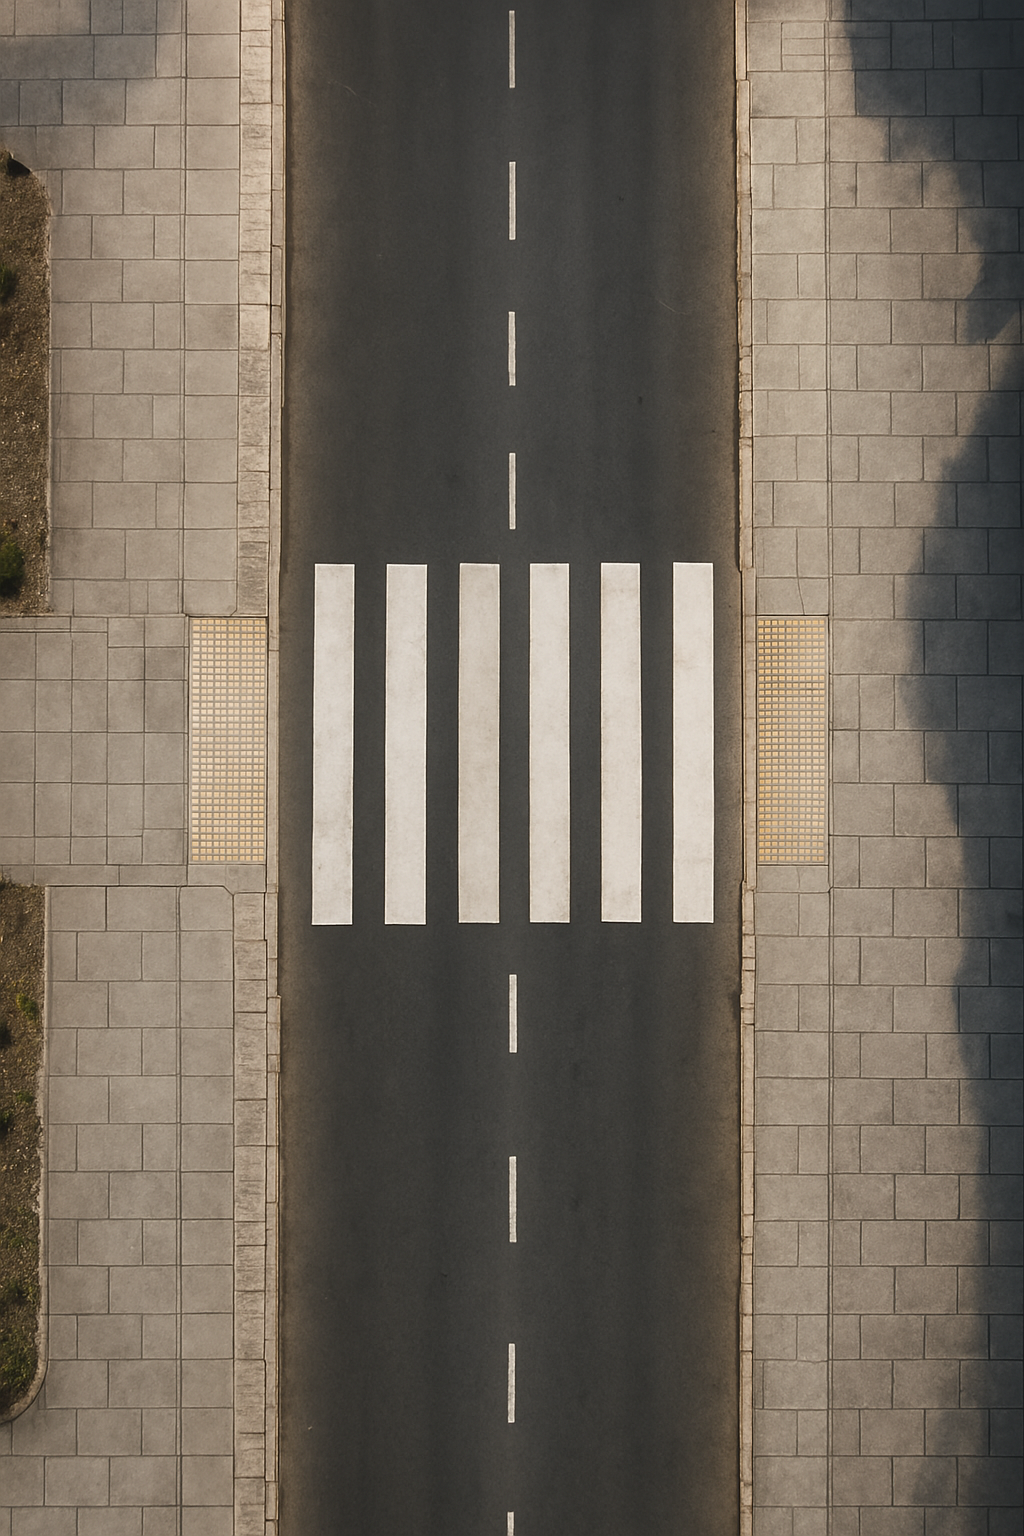
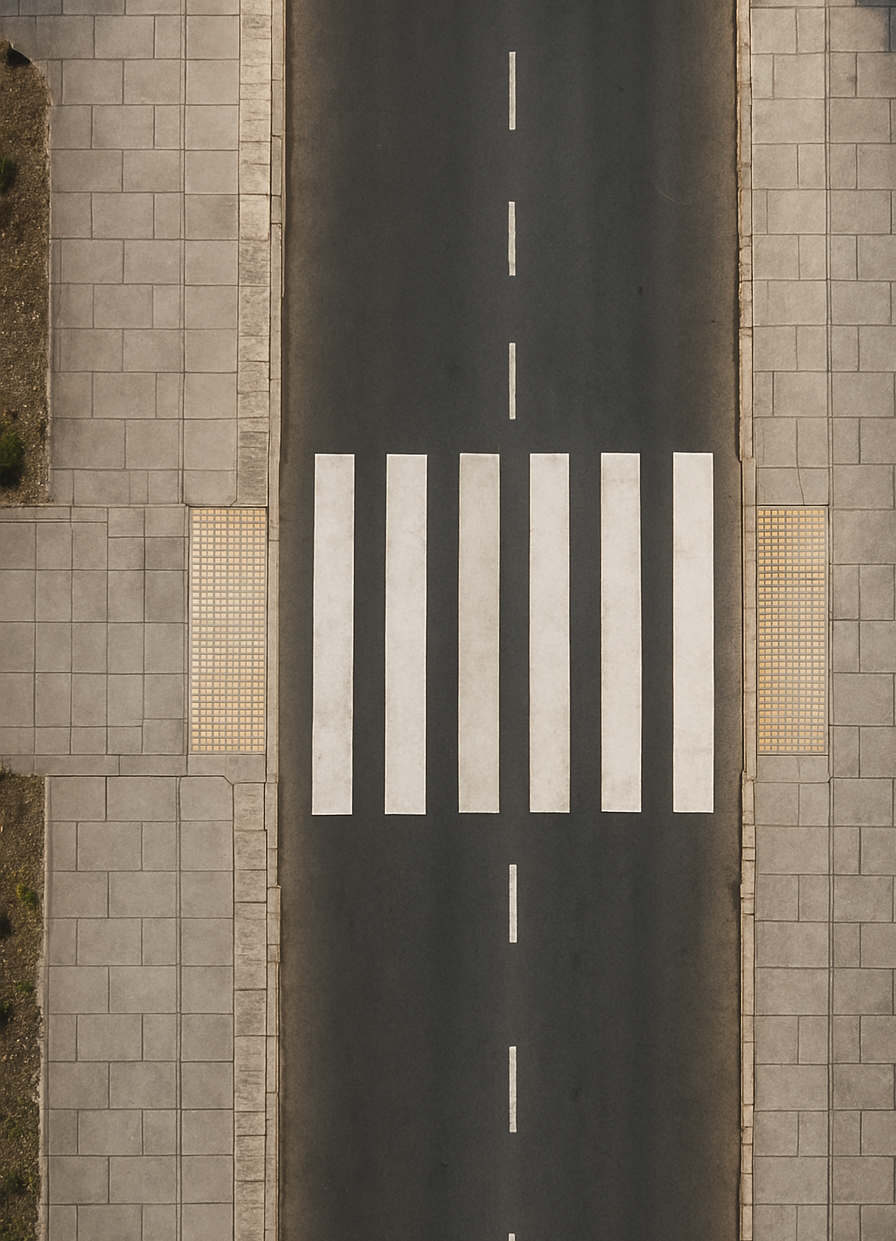
calle añadida hjhjhjh

diff --git a/Trafico/mainwindow.cpp b/Trafico/mainwindow.cpp
@@ -27,8 +27,11 @@ MainWindow::MainWindow(QWidget *parent)
 
     //Se carga  imagen calle
     QPixmap calle("C:\\Users\\UGE\\Desktop\\Trabajo final\\Trabajofinal\\Trafico\\calle.png");
-    QPixmap pixmapEscaladocalle = calle.scaled(100, 100, Qt::KeepAspectRatio, Qt::SmoothTransformation);
+    QPixmap pixmapEscaladocalle = calle.scaledToHeight(this->height(), Qt::SmoothTransformation);
     ui->label_6->setPixmap(pixmapEscaladocalle);
+    ui->label_6->resize(pixmapEscaladocalle.size());
+    ui->label_6->setAlignment(Qt::AlignCenter);
+    ui->label_6->setVisible(true);
     //imagen cargada
 
     //Se cargan las imagenes semaforo peatones
@@ -54,6 +57,22 @@ MainWindow::~MainWindow()
 {
     delete ui;
 }
+
+
+void MainWindow::resizeEvent(QResizeEvent *event)
+{
+    QMainWindow::resizeEvent(event);
+
+    QPixmap calle("C:\\Users\\UGE\\Desktop\\Trabajo final\\Trabajofinal\\Trafico\\calle.png");
+    QPixmap pixmapEscaladocalle = calle.scaledToHeight(this->height(), Qt::SmoothTransformation);
+    ui->label_6->setPixmap(pixmapEscaladocalle);
+    ui->label_6->resize(pixmapEscaladocalle.size());
+
+    int x = (this->width() - ui->label_6->width()) / 2;
+    int y = (this->height() - ui->label_6->height()) / 2;
+    ui->label_6->move(x, y);
+}
+
 
 //Funcion q cambia los estados del semaforo
 void MainWindow::cambiarSemaforo()

diff --git a/Trafico/mainwindow.h b/Trafico/mainwindow.h
@@ -21,6 +21,9 @@ public:
 private slots:
     void cambiarSemaforo();
 
+protected:
+    void resizeEvent(QResizeEvent *event);
+
 private:
     Ui::MainWindow *ui;
     QTimer *timer;
